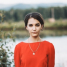
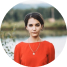
закончил основную стилизацию

diff --git a/index.html b/index.html
@@ -11,7 +11,7 @@
 </head>
 
 <body>
-  <header>
+  <header class="header">
     <div class="container flex header-container">
       <a href="#" class="header-logo">
         <img src="img/logo.svg" alt="logo" class="header-logo">
@@ -233,9 +233,9 @@
         <ul class="list-reset clients-list flex">
           <li class="clients-item flex">
             <p class="clients-descr section-descr">
-              Lorem ipsum dolor sit amet consectetur adipisicing elit. Animi, maxime, odit ullam exercitationem est
-              consequatur explicabo, quo officiis ut dolore ab. Vitae repudiandae exercitationem eaque impedit
-              nesciunt aperiam temporibus assumenda!
+              Duis autem vel eum iriure dolor in hendrerit in vulputate velit esse molestie consequat, vel illum dolore
+              eu feugiat nulla facilisis at vero eros et accumsan et iusto odio dignissim qui blandit odio dignissim qui
+              blandit molestie consequat.
             </p>
             <div class="clients-user flex">
               <div class="clients-avatar">
@@ -253,9 +253,9 @@
           </li>
           <li class="clients-item flex">
             <p class="clients-descr section-descr">
-              Lorem ipsum dolor sit amet consectetur adipisicing elit. Animi, maxime, odit ullam exercitationem est
-              consequatur explicabo, quo officiis ut dolore ab. Vitae repudiandae exercitationem eaque impedit
-              nesciunt aperiam temporibus assumenda!
+              Duis autem vel eum iriure dolor in hendrerit in vulputate velit esse molestie consequat, vel illum dolore
+              eu feugiat nulla facilisis at vero eros et accumsan et iusto odio dignissim qui blandit odio dignissim qui
+              blandit molestie consequat.!
             </p>
             <div class="clients-user flex">
               <div class="clients-avatar">
@@ -273,9 +273,9 @@
           </li>
           <li class="clients-item flex">
             <p class="clients-descr section-descr">
-              Lorem ipsum dolor sit amet consectetur adipisicing elit. Animi, maxime, odit ullam exercitationem est
-              consequatur explicabo, quo officiis ut dolore ab. Vitae repudiandae exercitationem eaque impedit
-              nesciunt aperiam temporibus assumenda!
+              Duis autem vel eum iriure dolor in hendrerit in vulputate velit esse molestie consequat, vel illum dolore
+              eu feugiat nulla facilisis at vero eros et accumsan et iusto odio dignissim qui blandit odio dignissim qui
+              blandit molestie consequat.
             </p>
             <div class="clients-user flex">
               <div class="clients-avatar">
@@ -303,7 +303,7 @@
         </h2>
         <address class="contacts-address">
           <ul class="list-reset contacts-list flex">
-            <li class="contacts-item flex">
+            <li class="contacts-item contacts-item-address flex">
               <strong class="contacts-item-caption">
                 Visit Us
               </strong>
@@ -311,7 +311,7 @@
                 Duis autem vel eum iriure dolor in&nbsp;hendrerit in&nbsp;vulputate velit.
               </p>
             </li>
-            <li class="contacts-item flex">
+            <li class="contacts-item contacts-item-phone flex">
               <strong class="contacts-item-caption">
                 Call Us
               </strong>
@@ -322,7 +322,7 @@
                 +7 (123) 456-78-90
               </a>
             </li>
-            <li class="contacts-item flex">
+            <li class="contacts-item contacts-item-mail flex">
               <strong class="contacts-item-caption">
                 Email Us
               </strong>
@@ -373,6 +373,17 @@
             <a href="#" class="footer-item-link">
               Terms Condition
             </a>
+          </li>
+        </ul>
+        <ul class="flex list-reset social">
+          <li class="social-item">
+            <a href="#" class="social-link social-link-twitter"></a>
+          </li>
+          <li class="social-item">
+            <a href="#" class="social-link social-link-linkedin"></a>
+          </li>
+          <li class="social-item">
+            <a href="#" class="social-link social-link-mail"></a>
           </li>
         </ul>
       </div>

diff --git a/css/style.css b/css/style.css
@@ -114,11 +114,15 @@ body {
 }
 
 /* header */
+
+.header {
+  border-bottom: 1px solid #C4C4C4;
+}
+
 .header-container {
   align-items: center;
   padding-top: 30px;
   padding-bottom: 30px;
-  border-bottom: 1px solid #C4C4C4;
   background-color: #fff;
 }
 
@@ -243,6 +247,9 @@ body {
 }
 
 /* articles */
+.articles {
+  border-bottom: 1px solid #DADADA;
+}
 
 .articles-list {
   flex-wrap: wrap;
@@ -253,11 +260,11 @@ body {
   width: 570px;
   outline: 1px solid #E4E4E4;
   margin-bottom: 30px;
+  border-radius: 5px;
 }
 
 .articles-item:not(:nth-child(2n)) {
   margin-right: 30px;
-  border-radius: 5px;
 }
 
 .blog-preview-image {
@@ -271,25 +278,42 @@ body {
 .blog-preview-time {
   display: block;
   margin-bottom: 5px;
+  font-size: 10px;
+  line-height: 150%;
+  color: #787878;
 }
 
 .blog-preview-title {
   margin: 0;
   margin-bottom: 15px;
+  font-weight: 600;
+  font-size: 20px;
+  line-height: 130%;
 }
 
 .blog-preview-descr {
   margin: 0;
+  font-size: 14px;
+  line-height: 150%;
+  color: #787878;
 }
 
 /* clients */
+
+.clients {
+  border-bottom: 1px solid #DADADA;
+}
+
+.contacts-title {
+  margin-bottom: 112px;
+}
 
 .clients-item {
   flex-direction: column;
   width: 370px;
   padding: 50px 36px;
   padding-bottom: 30px;
-  outline: 1px solid #6B6B6B;
+  border: 1px solid #6B6B6B;
   border-radius: 5px;
 }
 
@@ -299,7 +323,11 @@ body {
 
 .clients-descr {
   margin: 0;
-  margin-bottom: 33px;
+  padding-bottom: 33px;
+  width: 280px;
+  font-size: 14px;
+  line-height: 180%;
+  border-bottom: 1px solid #DADADA;
 }
 
 .clients-user {
@@ -314,39 +342,77 @@ body {
   margin-right: 17px;
 }
 
-.clients-mane {
-  margin-bottom: 5px;
+.clients-avatar img {
+  width: 100%;
+  height: 100%;
+  outline: 2px solid #3172B9;
+  border-radius: 100%;
+}
+
+.clients-name {
+  font-weight: 600;
+  font-size: 17px;
+  line-height: 180%;
+}
+
+.clients-post {
+  font-size: 14px;
+  line-height: 180%;
+  color: #787878;
 }
 
 /* .contacts  */
 
+.contacts {
+  border-bottom: 1px solid #DADADA;
+}
+
 .contacts-item {
   flex-direction: column;
   width: 370px;
-  outline: 1px solid aqua;
+  background-position: left top;
+  background-repeat: no-repeat;
 }
 
 .contacts-item:not(:nth-child(2n)) {
   margin-right: 30px;
 }
 
+.contacts-item-address {
+  background-image: url(../img/contact-1.svg);
+}
+
+.contacts-item-phone {
+  background-image: url(../img/contact-2.svg);
+}
+
+.contacts-item-mail {
+  background-image: url(../img/contact-3.svg);
+}
 
 .contacts-item-caption {
   margin: 0;
   margin-bottom: 30px;
+  padding-top: 45px;
+  font-weight: 600;
+  font-size: 17px;
+  line-height: 180%;
 }
 
 .contacts-item-text {
   margin: 0;
   width: 214px;
+  font-size: 14px;
+  line-height: 180%;
+  color: #787878;
 }
 
 .contacts-item-link {
   margin-bottom: 5px;
-}
-
-.contacts-item-link:not(:last-child) {
-  margin-bottom: 5px;
+  font-size: 14px;
+  width: max-content;
+  line-height: 180%;
+  color: #787878;
 }
 
 /* footer */
@@ -363,6 +429,9 @@ body {
 
 .footer-text {
   margin: 0;
+  font-size: 12px;
+  line-height: 16px;
+  color: #787878;
 }
 
 .footer-left,
@@ -370,6 +439,42 @@ body {
   align-items: center;
 }
 
+.footer-list {
+  margin-right: 56px;
+}
+
+.footer-item {
+  font-weight: 600;
+  font-size: 15px;
+  line-height: 20px;
+  color: #787878;
+}
+
 .footer-item:not(:last-child) {
   margin-right: 30px;
+}
+
+.social-item:not(:last-child) {
+  margin-right: 32px;
+}
+
+.social-link {
+  display: block;
+  width: 22px;
+  height: 15px;
+  background-position: center;
+  background-repeat: no-repeat;
+  background-size: contain;
+}
+
+.social-link-twitter {
+  background-image: url(../img/foot-twitter.svg);
+}
+
+.social-link-linkedin {
+  background-image: url(../img/foot-linkedin.svg);
+}
+
+.social-link-mail {
+  background-image: url(../img/foot-mail.svg);
 }
